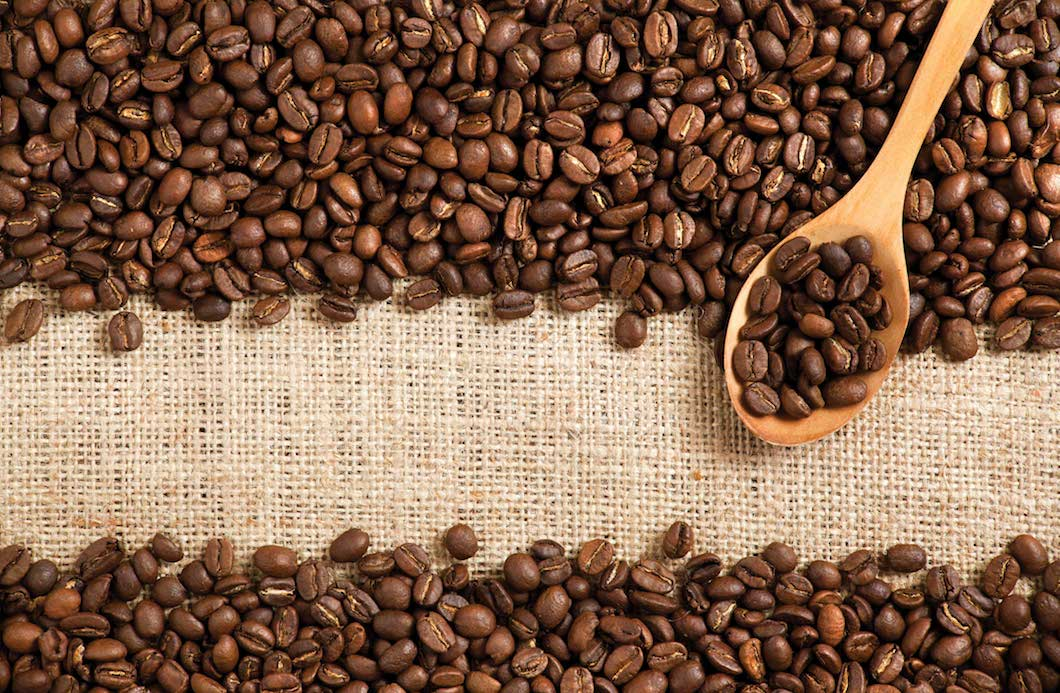
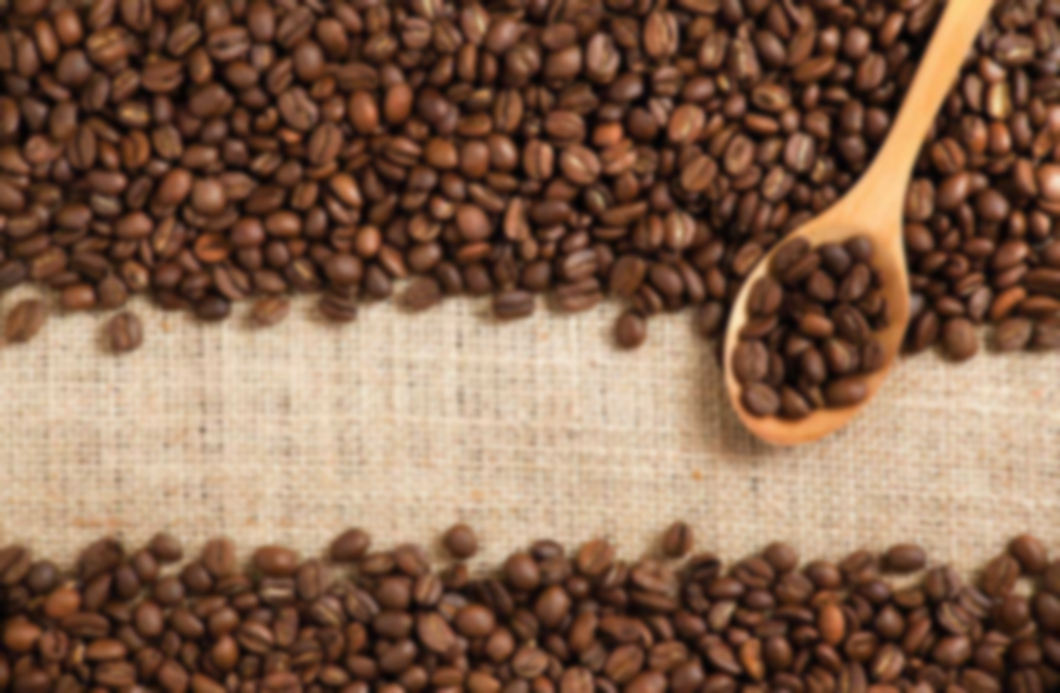
Add fadein, manually blur (more robust). #13

diff --git a/app/assets/stylesheets/index.css.scss b/app/assets/stylesheets/index.css.scss
@@ -1,9 +1,4 @@
 #backdrop {
-
-  // TODO: IE blur - does this work?
-  filter:blur(add = 0, direction = 300, strength = 10);
-
-  -webkit-filter: blur(5px);
   background-image: url(bg-image-small.jpeg);
   background-position: center;
   background-size: cover;
@@ -19,10 +14,12 @@
 }
 
 #banner #banner-title {
+  display: none;
   font-size: 100px;
   text-shadow: 0 2px 0 rgba(0, 0, 0, 0.3);
 }
 
 #banner #banner-subtitle {
+  display: none;
   font-size: 30px;
 }
